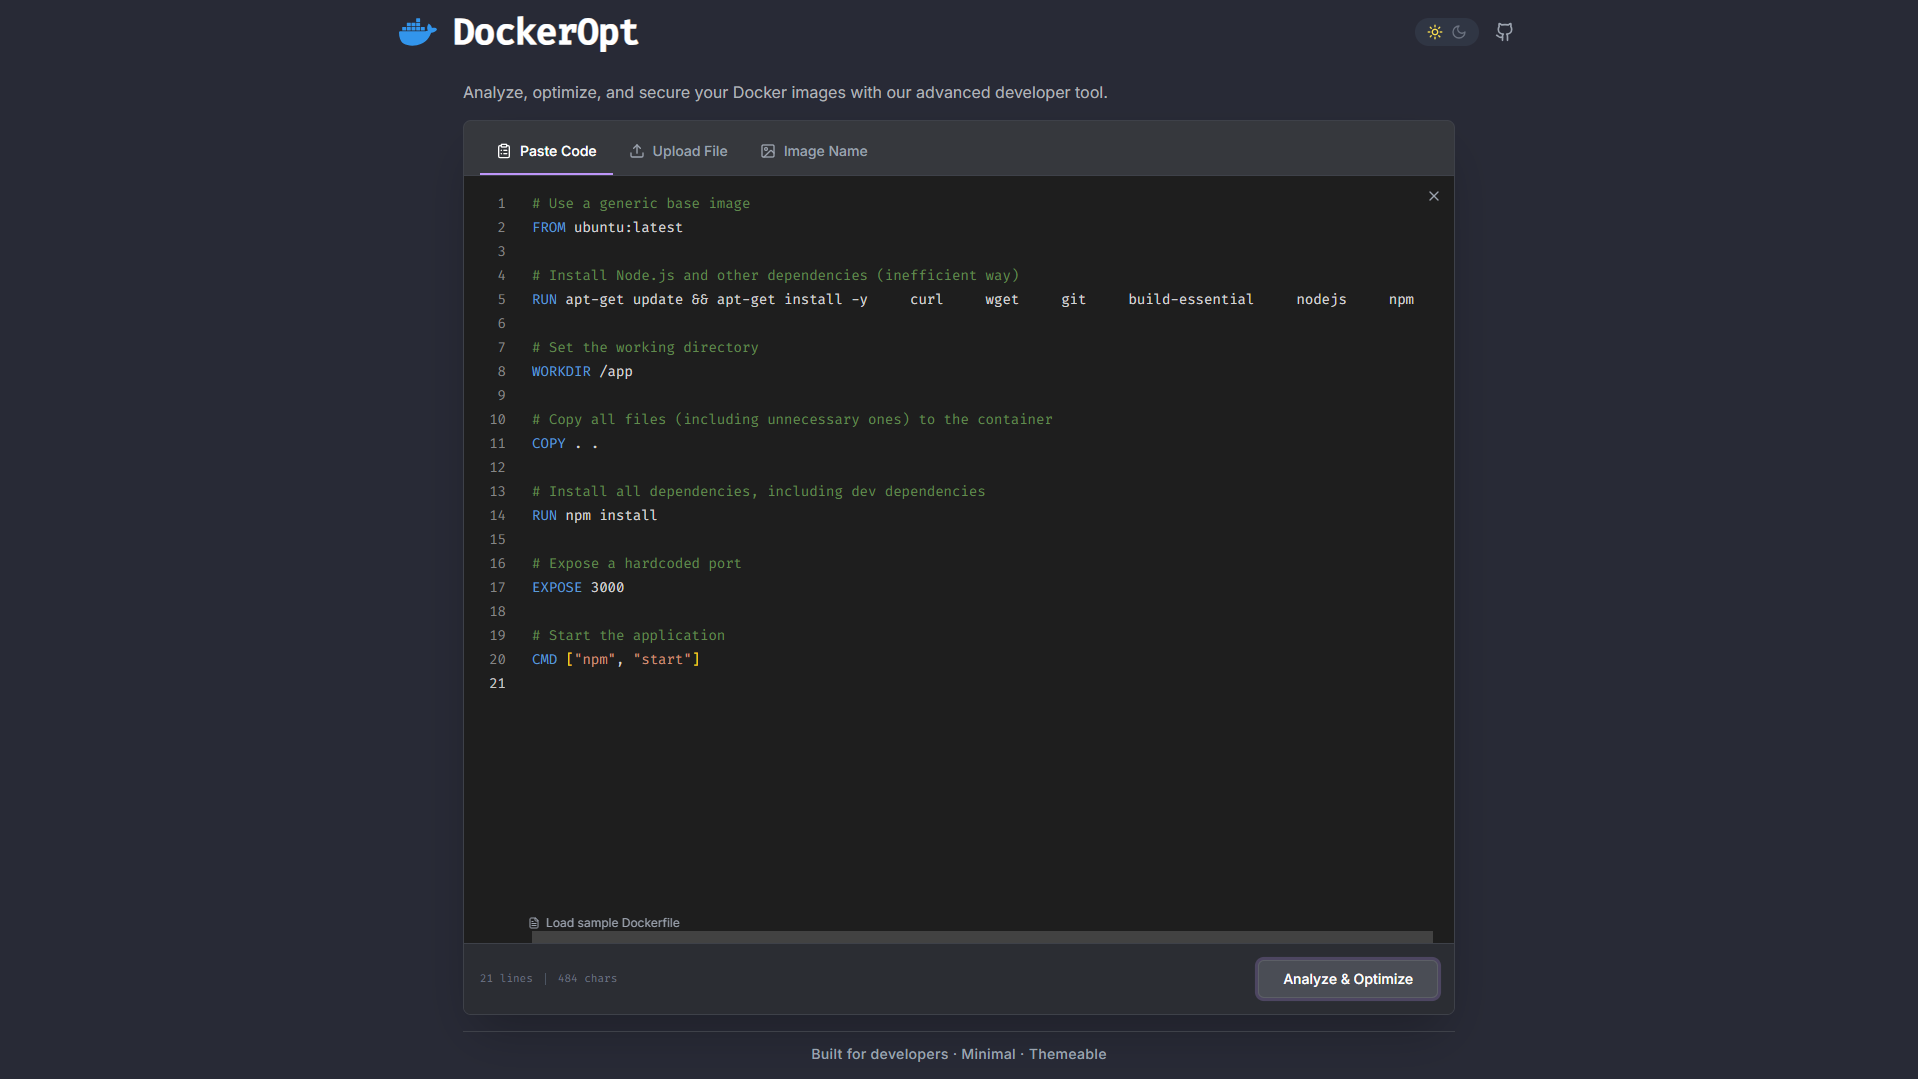
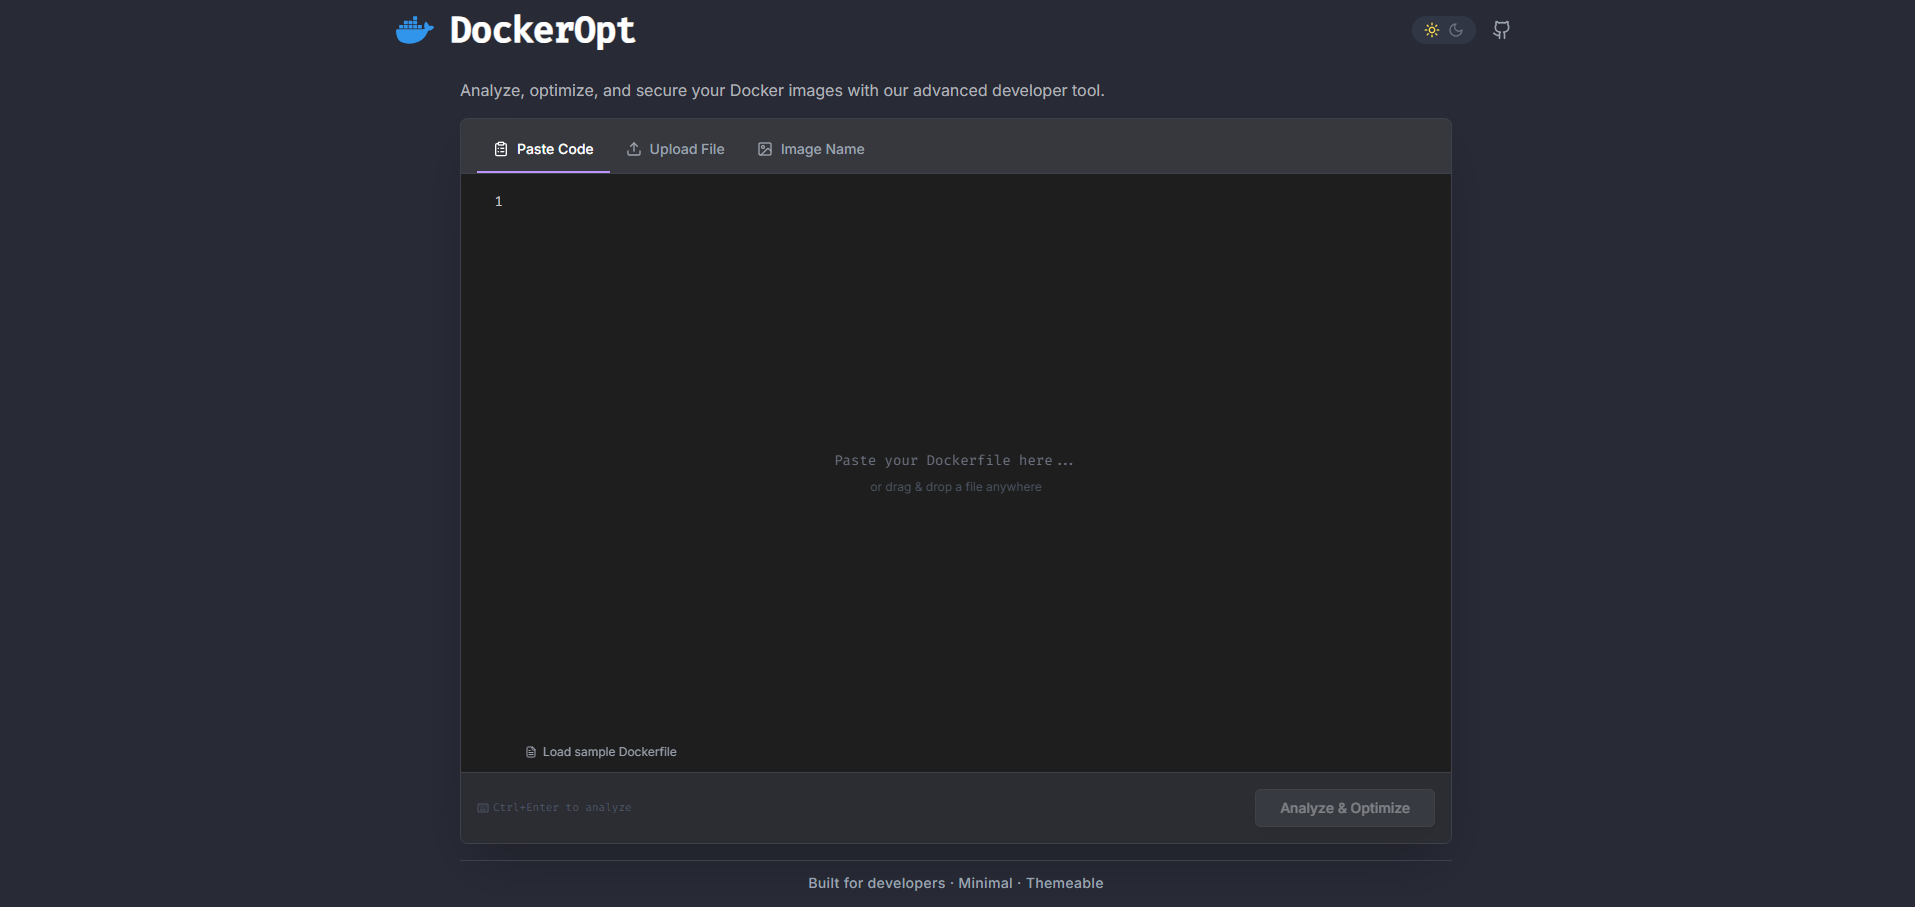
landing page inclusion

diff --git a/README.md b/README.md
@@ -2,6 +2,8 @@
 
 AI-powered Dockerfile analyzer and optimizer. Paste, upload, or photograph your Dockerfile and get instant analysis with actionable optimization suggestions.
 
+![Landing Page Screenshot](./public/assets/landing-page.png)
+
 ![React](https://img.shields.io/badge/React-18.3-61DAFB?logo=react&logoColor=white)
 ![TypeScript](https://img.shields.io/badge/TypeScript-5.5-3178C6?logo=typescript&logoColor=white)
 ![Vite](https://img.shields.io/badge/Vite-5.4-646CFF?logo=vite&logoColor=white)
@@ -103,9 +105,9 @@ src/
 ---
 
 
-## Landing Page
+<!-- ## Landing Page
 
-![Landing Page Screenshot](./public/assets/landing-page.png)
+
 
 The DockerOpt landing page provides a modern, minimal, and themeable interface for analyzing, optimizing, and securing Docker images. Key features include:
 
@@ -119,7 +121,7 @@ The DockerOpt landing page provides a modern, minimal, and themeable interface f
 
 The UI is designed for a seamless developer experience, focusing on usability and clarity.
 
----
+--- -->
 
 ## License
 
